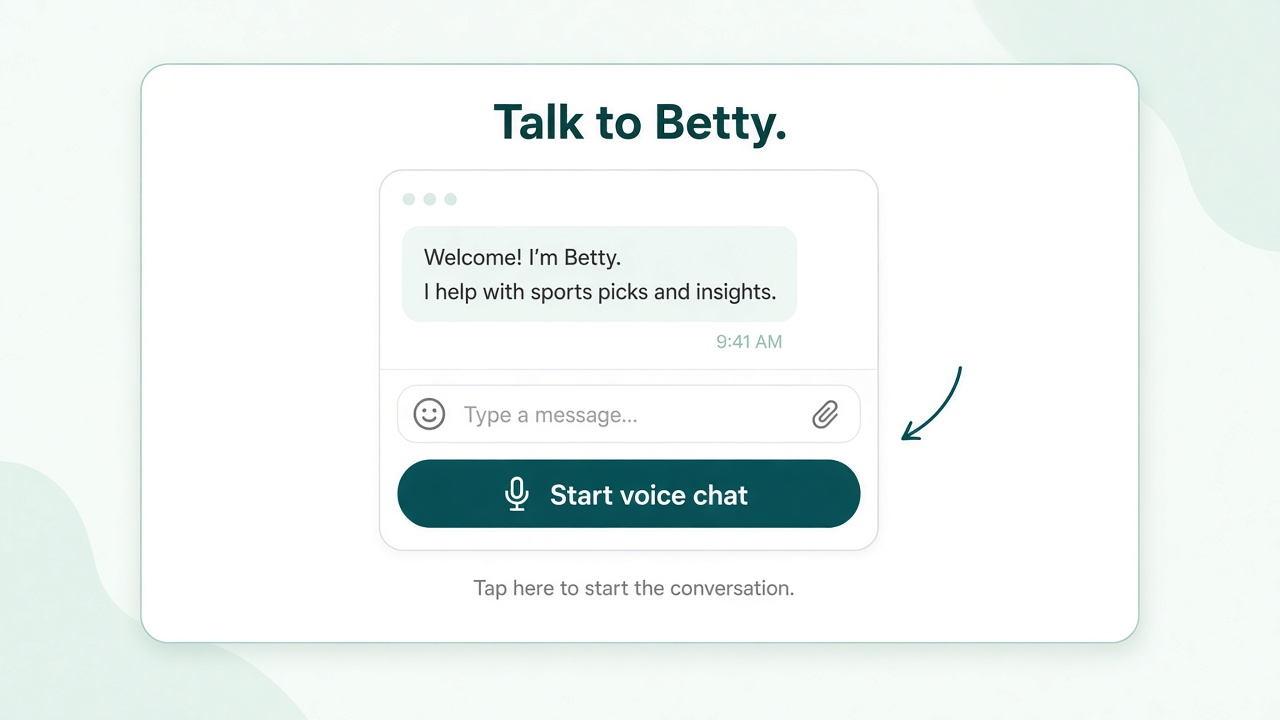
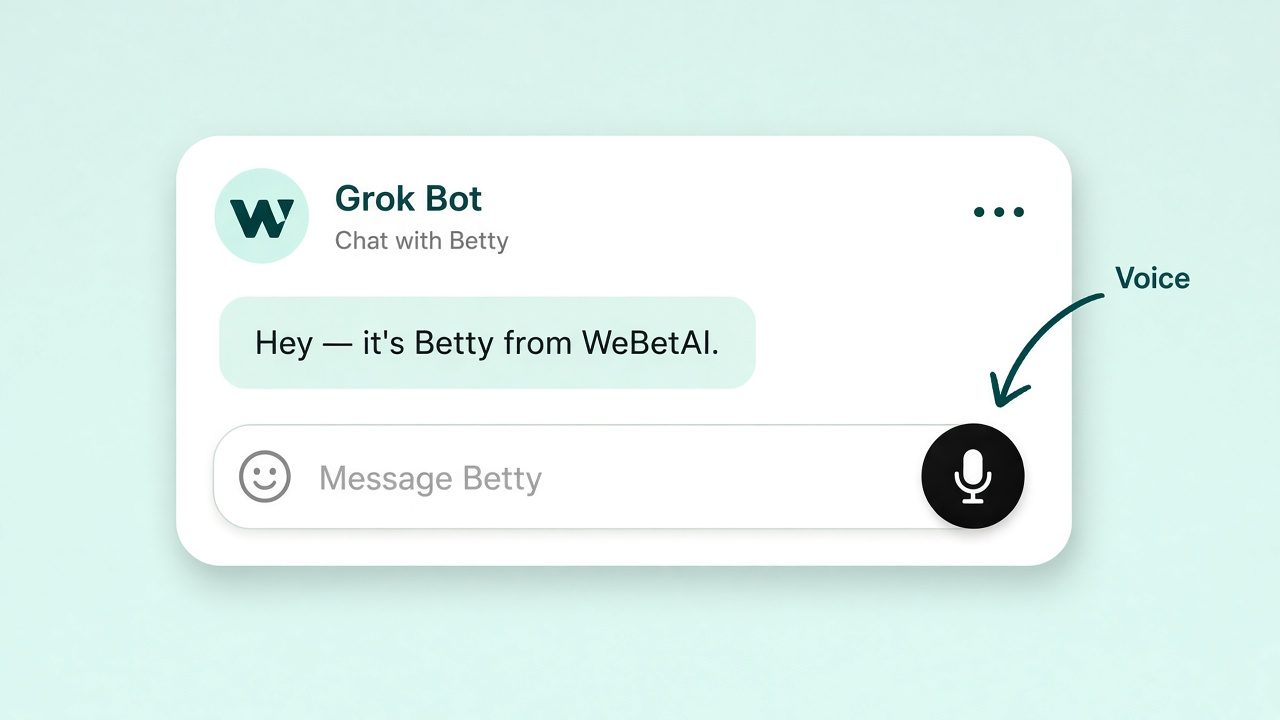
content(/grokbot): Talk To Betty voice-button guide + warm optional copy
Replace instructional Start Voice Chat lines with Betty-voice invite under an
arrow-to-mic screenshot so voice feels optional and visual on mobile.

diff --git a/grokbot/index.html b/grokbot/index.html
@@ -595,6 +595,8 @@
       .hero-ctas a { width: 100%; }
       .store-row .btn-primary { width: 100%; }
       .section, .install, .final, .bets-under-video { padding: 1rem .85rem; }
+      .tutorial-guide { padding-bottom: 1rem; }
+      .tutorial-guide .talk-prompt { max-width: 100%; padding: 0 .15rem; }
       .x-card {
         grid-template-columns: auto minmax(0, 1fr);
         grid-template-areas: "av meta" "btn btn";
@@ -676,6 +678,12 @@
     .tutorial-guide .talk-prompt-line {
       display: block;
     }
+    .tutorial-guide .talk-prompt-soft {
+      margin-top: .35rem;
+      font-size: .92em;
+      font-weight: 650;
+      color: var(--txt-m);
+    }
     .tutorial-guide .talk-prompt strong {
       color: #004C54;
       font-weight: 900;
@@ -754,10 +762,10 @@
 
     <section class="tutorial-guide" aria-labelledby="talk-betty">
       <div class="section-label" id="talk-betty">Talk To Betty</div>
-      <img src="/betty-start-conversation.png" width="1200" height="675" alt="Talk to Betty — tap Start voice chat to begin the conversation" loading="eager" decoding="async" />
+      <img src="/betty-start-conversation.png" width="1280" height="720" alt="Betty pointing you to the voice button in Grok Bot" loading="eager" decoding="async" />
       <p class="talk-prompt">
-        <span class="talk-prompt-line">Tap <strong>Start Voice Chat</strong> to talk with Betty.</span>
-        <span class="talk-prompt-line">Or just type. Same Betty either way.</span>
+        <span class="talk-prompt-line">Anytime you want to just talk to me instead of text, just click that button to have a full conversation with me.</span>
+        <span class="talk-prompt-line talk-prompt-soft">Or keep typing. Totally up to you.</span>
       </p>
     </section>
   </header>
